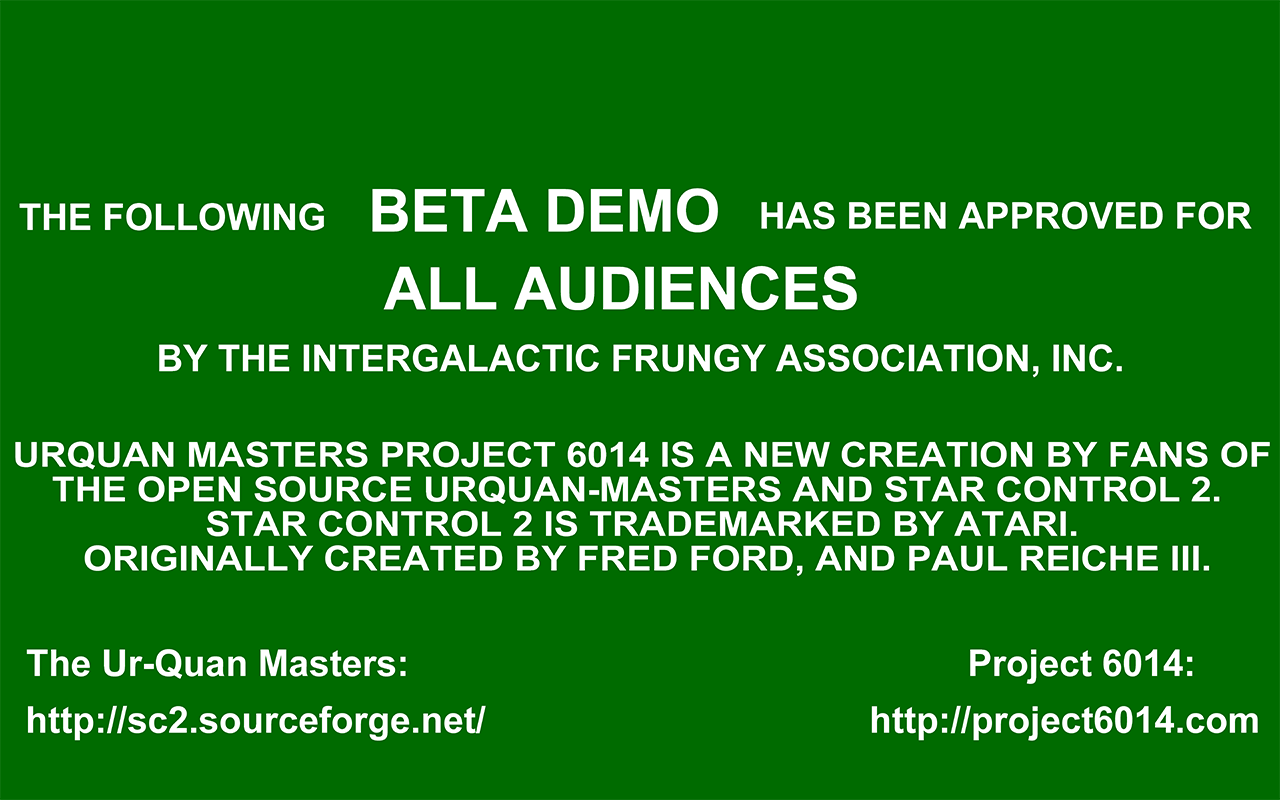
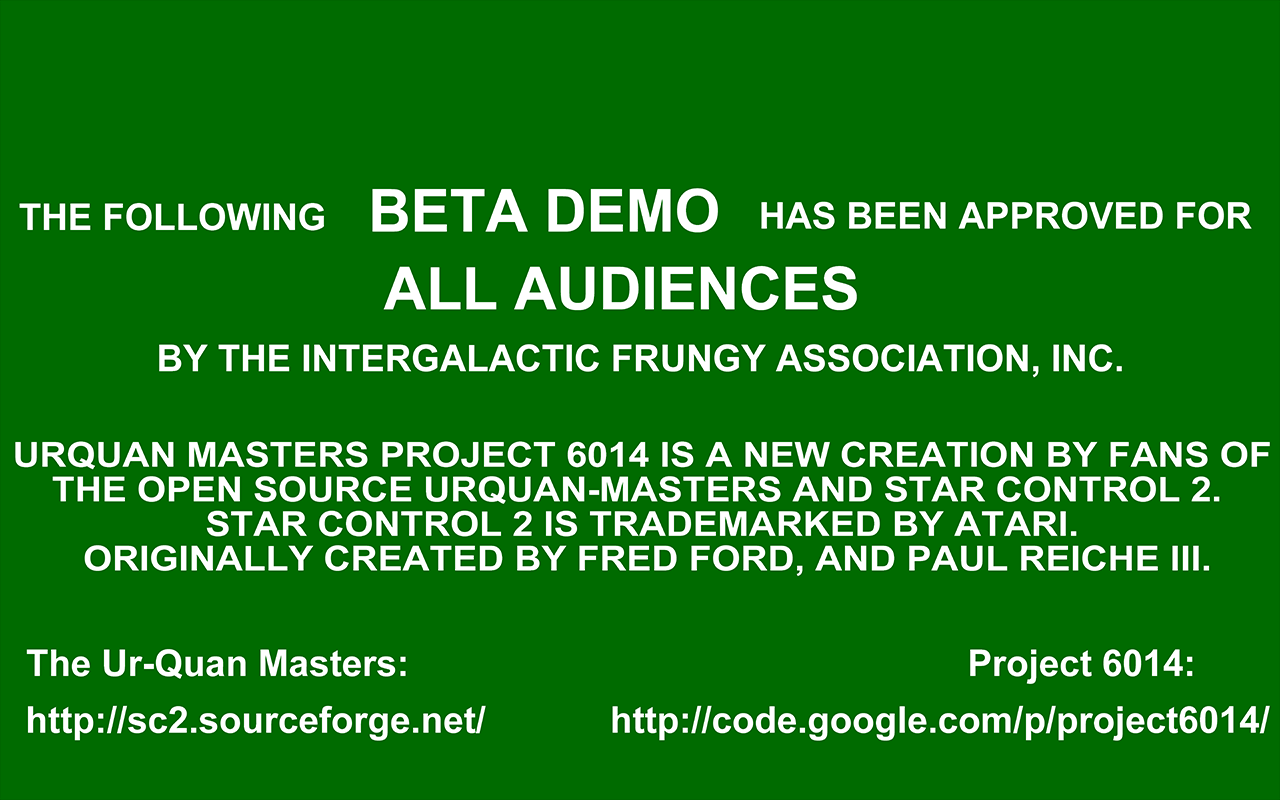
Odds and ends. Better centering for red star in hyperspace. Slowed down balu gas animation to enhance performance. Replaced old green title screen with website address.

Changed region(s): [[0.4688, 0.875, 1.0, 0.9375]]

diff --git a/sc2/src/uqm/ships/baul/baul.c b/sc2/src/uqm/ships/baul/baul.c
@@ -603,7 +603,7 @@ generate_shockwave (ELEMENT *ElementPtr, BYTE which_player)
 					destruction = ((MAX_DESTRUCTION * (SHOCKWAVE_RANGE - square_root (dist))) / SHOCKWAVE_RANGE) + 1;
 					
 					// Remove the lock on enemy ship and make the gas die on next turn.
-					ObjPtr->hTarget = 0;
+					//ObjPtr->hTarget = 0;
 					ObjPtr->life_span = (10 / destruction);
 					
 					// Delayed shockwave
@@ -674,30 +674,30 @@ gas_death (ELEMENT *ElementPtr)
 	
 	if (StarShipPtr->hShip)
 	{
-		HELEMENT hIonSpots;
+		HELEMENT hDissolve;
 		ELEMENT *ShipPtr;
 		
 		LockElement (StarShipPtr->hShip, &ShipPtr);
 	
-		if ((hIonSpots = AllocElement ()))
+		if ((hDissolve = AllocElement ()))
 		{
-			ELEMENT *IonSpotsPtr;
+			ELEMENT *DissolvePtr;
 			
-			LockElement (hIonSpots, &IonSpotsPtr);
-			IonSpotsPtr->playerNr = ElementPtr->playerNr;
-			IonSpotsPtr->state_flags = FINITE_LIFE | NONSOLID | IGNORE_SIMILAR | APPEARING;
-			IonSpotsPtr->turn_wait = 0;
-			IonSpotsPtr->life_span = NUM_DISSOLVE_ANIMS;
-			IonSpotsPtr->current.location.x = ElementPtr->current.location.x;
-			IonSpotsPtr->current.location.y = ElementPtr->current.location.y;
-			IonSpotsPtr->current.image.farray = StarShipPtr->RaceDescPtr->ship_data.special;
-			IonSpotsPtr->current.image.frame = SetAbsFrameIndex (ElementPtr->current.image.frame, LAST_SHOCKWAVE_INDEX);
-			IonSpotsPtr->preprocess_func = gas_death_animation;
-			SetElementStarShip (IonSpotsPtr, StarShipPtr);
-			SetPrimType (&(GLOBAL (DisplayArray))[IonSpotsPtr->PrimIndex], STAMP_PRIM);
+			LockElement (hDissolve, &DissolvePtr);
+			DissolvePtr->playerNr = ElementPtr->playerNr;
+			DissolvePtr->state_flags = FINITE_LIFE | NONSOLID | IGNORE_SIMILAR | APPEARING;
+			DissolvePtr->turn_wait = 0;
+			DissolvePtr->life_span = NUM_DISSOLVE_ANIMS;
+			DissolvePtr->current.location.x = ElementPtr->current.location.x;
+			DissolvePtr->current.location.y = ElementPtr->current.location.y;
+			DissolvePtr->current.image.farray = StarShipPtr->RaceDescPtr->ship_data.special;
+			DissolvePtr->current.image.frame = SetAbsFrameIndex (ElementPtr->current.image.frame, LAST_SHOCKWAVE_INDEX);
+			DissolvePtr->preprocess_func = gas_death_animation;
+			SetElementStarShip (DissolvePtr, StarShipPtr);
+			SetPrimType (&(GLOBAL (DisplayArray))[DissolvePtr->PrimIndex], STAMP_PRIM);
 			
-			UnlockElement (hIonSpots);
-			PutElement (hIonSpots);
+			UnlockElement (hDissolve);
+			PutElement (hDissolve);
 		}
 		
 		UnlockElement (StarShipPtr->hShip);
@@ -711,14 +711,22 @@ gas_preprocess (ELEMENT *ElementPtr)
 	
 	GetElementStarShip (ElementPtr, &StarShipPtr);
 	
-	// Move to next image frame.
-	if (GetFrameIndex (ElementPtr->current.image.frame) < LAST_GAS_INDEX - 1)
-		ElementPtr->next.image.frame = IncFrameIndex (ElementPtr->current.image.frame);
+	// Move to next image frame. (Abusing thrust_wait to slow down the anim.)
+	if (ElementPtr->thrust_wait > 0)
+		--ElementPtr->thrust_wait;
 	else
-		ElementPtr->next.image.frame = SetAbsFrameIndex (ElementPtr->current.image.frame, 0);
-	
-	// This makes the gas animate even if the ships are not moving and the screen is stationary.
-	ElementPtr->state_flags |= CHANGING;
+	{
+		// Abusing thrust_wait to slow down the anim. (Should help performance a bit.)
+		ElementPtr->thrust_wait = 1;
+		
+		// This makes the gas animate even if the ships are not moving and the screen is stationary.
+		ElementPtr->state_flags |= CHANGING;
+		
+		if (GetFrameIndex (ElementPtr->current.image.frame) < LAST_GAS_INDEX - 1)
+			ElementPtr->next.image.frame = IncFrameIndex (ElementPtr->current.image.frame);
+		else
+			ElementPtr->next.image.frame = SetAbsFrameIndex (ElementPtr->current.image.frame, 0);
+	}
 	
 	// If enemy ship dies, remove the gas (this prevents game crashing upon enemy ship dying with gas on it).
 	if ((!(ElementPtr->state_flags & IGNORE_VELOCITY) && ElementPtr->hTarget == 0)
@@ -787,6 +795,7 @@ gas_preprocess (ELEMENT *ElementPtr)
 				eptr->playerNr = ElementPtr->playerNr;
 				eptr->state_flags = FINITE_LIFE | GASSY_SUBSTANCE | CHANGING;
 				eptr->life_span = 1;
+				eptr->thrust_wait = 1;
 				eptr->weapon_element_index = ElementPtr->weapon_element_index;
 				eptr->current = eptr->next = ElementPtr->next;
 				eptr->preprocess_func = gas_preprocess;
@@ -874,6 +883,7 @@ gas_collision (ELEMENT *ElementPtr0, POINT *pPt0, ELEMENT *ElementPtr1, POINT *p
 			}
 			GasPtr->hit_points = ElementPtr0->hit_points;
 			GasPtr->life_span = ElementPtr0->life_span;
+			GasPtr->thrust_wait = 1;
 			GasPtr->weapon_element_index = ElementPtr0->weapon_element_index;
 			GasPtr->turn_wait = (BYTE)(1 << ((BYTE)TFB_Random () & 1)); /* LEFT or RIGHT */
 			
@@ -951,6 +961,7 @@ static void spawn_gas (ELEMENT *ShipPtr)
 		LockElement (Missile, &GasPtr);
 		GasPtr->collision_func = gas_collision;
 		GasPtr->death_func = gas_death;
+		GasPtr->thrust_wait = 1;
 		GasPtr->weapon_element_index = gas_number[ShipPtr->playerNr];
 		SetElementStarShip (GasPtr, StarShipPtr);
 		ProcessSound (SetAbsSoundIndex (StarShipPtr->RaceDescPtr->ship_data.ship_sounds, 1), GasPtr);
